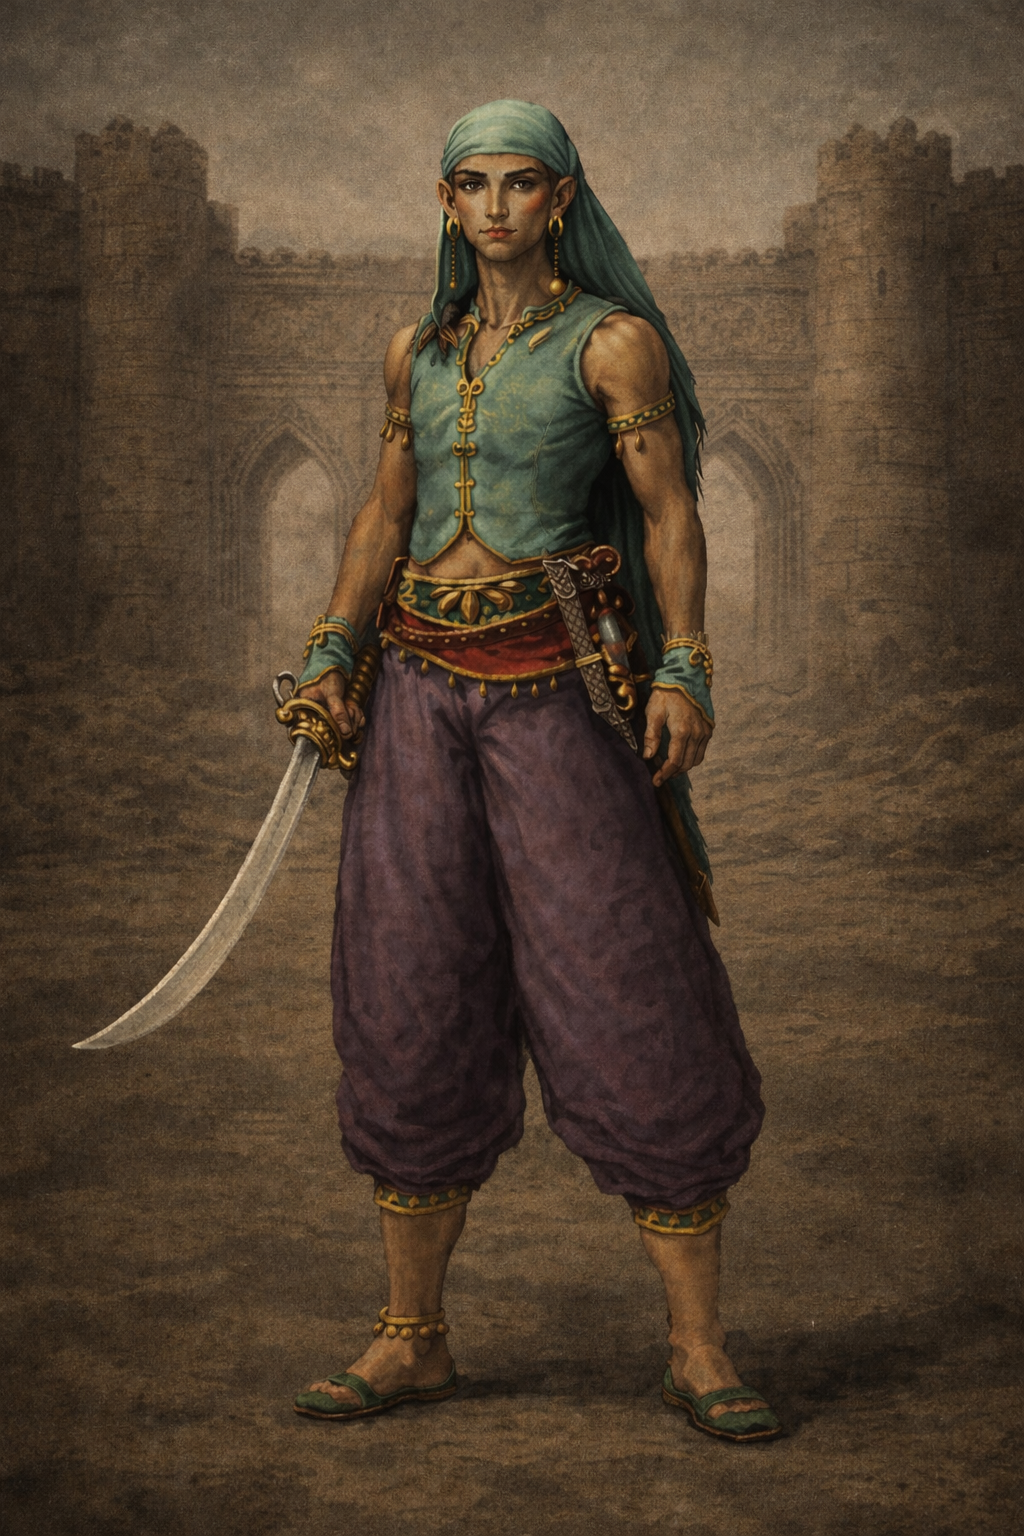
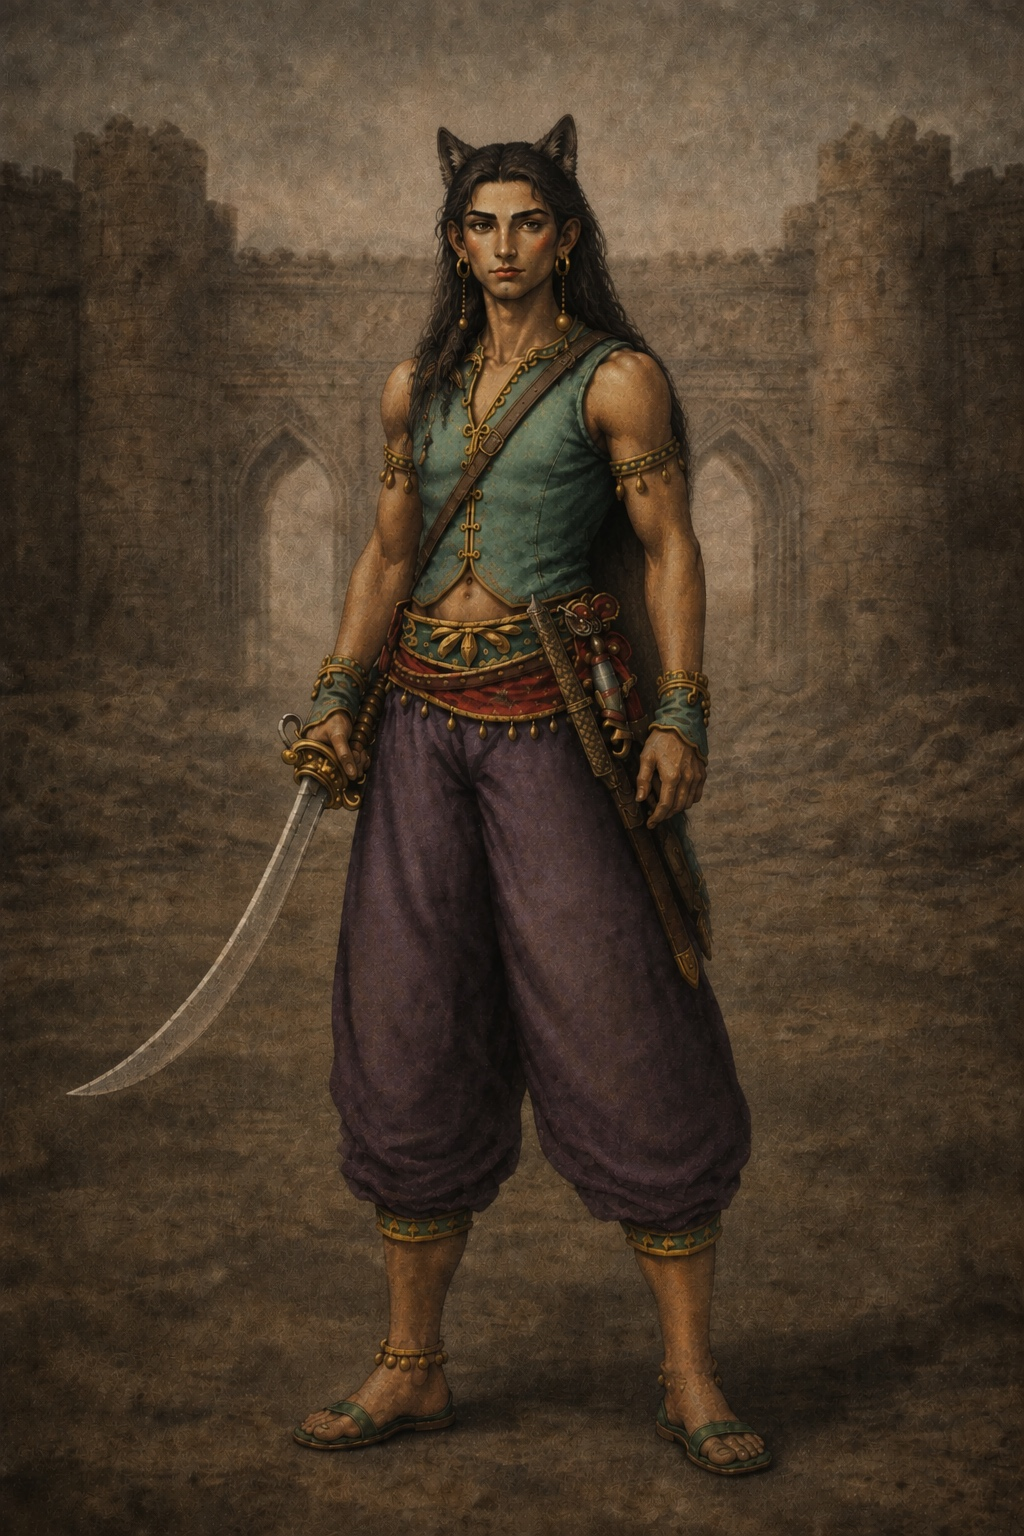
Larry Croft: Persian full name, mother's page, wolf-ears mechanic, new portrait
- Full name mirza Sohrab Delarazad Kerefti with name-origin section
- New Personalities page for his mother, ustad Delara-banu Purandokht Kerefti
- Wolf-ears trophy: influence buff / fear vulnerability while worn
- Overcoming-the-phobia arc started with the ship scene
- Glossary entries for both; portrait guard in personalities layout

diff --git a/src/Glossary/index.html b/src/Glossary/index.html
@@ -107,7 +107,7 @@ eleventyExcludeFromCollections: true
 <p><strong><a href="../Characters/Grima/">Грима (Грим)</a></strong> — артист 3-го уровня, циркач из народа илари.</p>
 <p><strong><a href="../Characters/Ilsa/">Илса</a></strong> — следопыт 3-го уровня, охотница на монстров.</p>
 <p><strong><a href="../Characters/Kostas/">Костас Кадаран Чернобородый</a></strong> — следопыт 4-го уровня, пират-ополченец из клана Кадаран.</p>
-<p><strong><a href="../Characters/Larry%20Croft/">Ларри Крофт</a></strong> — артист 4-го уровня, аристократ-авантюрист с юга.</p>
+<p><strong><a href="../Characters/Larry%20Croft/">Ларри Крофт</a></strong> — артист 4-го уровня, аристократ-авантюрист с юга; полное имя — мирза Сохраб Дельаразад Керефти, сын <a href="../Personalities/Lara%20Croft/">Лары Крофт</a>.</p>
 <p><strong><a href="../Characters/Lyn%20Aster/">Линн Эстер</a></strong> — следопыт 3-го уровня, дозорная предгорных троп; её спутник — ворон Кайр.</p>
 <p><strong><a href="../Characters/Lira/">Лира</a></strong> — следопыт 2-го уровня, сирота из пастушьей семьи.</p>
 <p><strong><a href="../Characters/Maya/">Майя</a></strong> — боец 2-го уровня, полевой медик.</p>
@@ -122,6 +122,7 @@ eleventyExcludeFromCollections: true
 
 <h2 class="draft">Личности</h2>
 <p><strong>Ат-Толик</strong> — богатый альфаранский купец, отец Тиграна; обвинён властями Рума в контрабанде и казнён.</p>
+<p><strong><a href="../Personalities/Lara%20Croft/">Устад Дельара-бану Пурандохт Керефти</a></strong> — именитая южная исследовательница, преподавательница и археолог; на севере известна как «Лара Крофт»; мать <a href="../Characters/Larry%20Croft/">Ларри Крофта</a>.</p>
 <p><strong>Илай Альберих</strong> — слепой жрец, наставник Уильяма «Лисёнка»; научил его грамоте и вере.</p>
 <p><strong><a href="../Personalities/Yorgos/">Капитан Йоргос «Безумный»</a></strong> — маниотский капитан и мастер горючих смесей, посвятивший жизнь войне с кораблями южан.</p>
 <p><strong>Кайр</strong> — ворон, спутник Линн Эстер.</p>

diff --git a/src/Characters/Larry Croft/index.md b/src/Characters/Larry Croft/index.md
@@ -25,6 +25,8 @@ combat:
 # Карточка персонажа — Ларри Крофт
 
 ## Основная информация
+**Полное имя:** мирза Сохраб Дельаразад Керефти
+
 **Класс:** **[Артист (Artist)](../../Classes/artist/)**  
 **Предыстория:** Аристократ авантюрист
 
@@ -56,6 +58,8 @@ combat:
 
 - **190 золотых монет южной чеканки** для полагающегося аристократу комфорта в путешествиях
 
+- **Волчьи уши** — шапка-трофей из шкуры волка, что едва его не убил; хранится завёрнутой в полотно (см. «Волчьи уши — две личины»)
+
 ### Доспехи
 
 - **Изысканная южная одежда (привлекает внимание):** +0 к КБ, легкая защита
@@ -72,6 +76,12 @@ combat:
 
 - **Фобия:** Ты до ужаса боишься волков, лютоволков и даже обычных собак. Первая атака в бою по этому типу существ совершается с помехой, кроме того первая атака по персонажу этим типом существ совершается с преимуществом
 
+- **Волчьи уши:** надевая трофей, Ларри прикасается к собственному страху — и страх течёт в обе стороны. Пока уши надеты:
+  - Его влияние на окружающих сильнее: преимущество на проверки Выступления, Убеждения и Запугивания
+  - Его собственные страхи обострены: помеха на спасброски против испуга. А если запугивающий — волк, собака или давит на волчью тему (рычит, носит волчьи шкуры, поминает клыки), его проверка Запугивания против Ларри совершается с преимуществом. Фобия волков никуда не девается
+
+  Снятые уши — просто свёрток в полотне: действует только обычная фобия
+
 ## Способности
 
 - **[Вдохновение](../../Classes/artist/#inspiration)**
@@ -79,3 +89,13 @@ combat:
 - **[Быстрая поддержка](../../Classes/artist/#inspiration)** можно подбодрить союзника бонусным действием - восстанавливает 1d4 КЗ
 
 - **[Сказитель (Storyteller) 3 уровень](../../Classes/artist/#archetypes-art)**
+
+## Путь преодоления
+
+1. **Ночь на корабле.** Ларри сидит за столом, его трясёт. Перед ним лежат волчьи уши. Он смотрит на них — и вспоминает боль, вспоминает, как чуть не умер. Дрожит от страха и злости. С криком швыряет их прочь. Тяжело дышит. Потом поднимает, аккуратно заворачивает в полотно и убирает. С этой ночи уши перестали быть просто трофеем: надеть их — каждый раз осознанный выбор.
+
+## Происхождение имени
+
+«Ларри Крофт» — северная адаптация полного имени **мирза Сохраб Дельаразад Керефти** («господин-книжник Сохраб, рождённый Дельарой, из Карафто»): «Ларри» — от матронима Дельаразад, «Крофт» — от нисбы Керефти.
+
+Мать — [устад Дельара-бану Пурандохт Керефти](../../Personalities/Lara%20Croft/), на севере известная как «Лара Крофт», именитая исследовательница и археолог. Отец неизвестен: вместо ожидаемого патронима в имени стоит матроним, что по южным меркам — заявление. Имя Сохраб мать дала сыну в честь героя древнего эпоса, выросшего без отца, — историю которого Ларри теперь сам рассказывает со сцены.

diff --git a/src/Personalities/Lara Croft/index.md b/src/Personalities/Lara Croft/index.md
@@ -1,0 +1,19 @@
+---
+title: "Устад Дельара-бану Пурандохт Керефти"
+---
+
+# Устад Дельара-бану Пурандохт Керефти
+
+## Основная информация
+
+**Имя:** устад Дельара-бану Пурандохт Керефти — «профессор госпожа Дельара, дочь Пурана, из Карафто»
+
+**Известна на севере как:** «Лара Крофт» — сокращение: «Лара» — от личного имени **Дельара**, «Крофт» — от нисбы **Керефти**
+
+**Род занятий:** именитая исследовательница, преподавательница и археолог с юга
+
+**Связи:** мать [Ларри Крофта](../../Characters/Larry%20Croft/); отец её сына неизвестен
+
+## Имя
+
+**Дельара** означает «украшающая сердце». Нисба **Керефти** — «из пещерного города Карафто», где она вела свои знаменитые раскопки. Титул **устад** («мастер, профессор») — обращение к признанным учёным и наставникам; **бану** — «госпожа». Патроним **Пурандохт** («дочь Пурана») ведёт её род по отцу, но собственного сына она записала матронимом — Дельаразад, «рождённый Дельарой».
